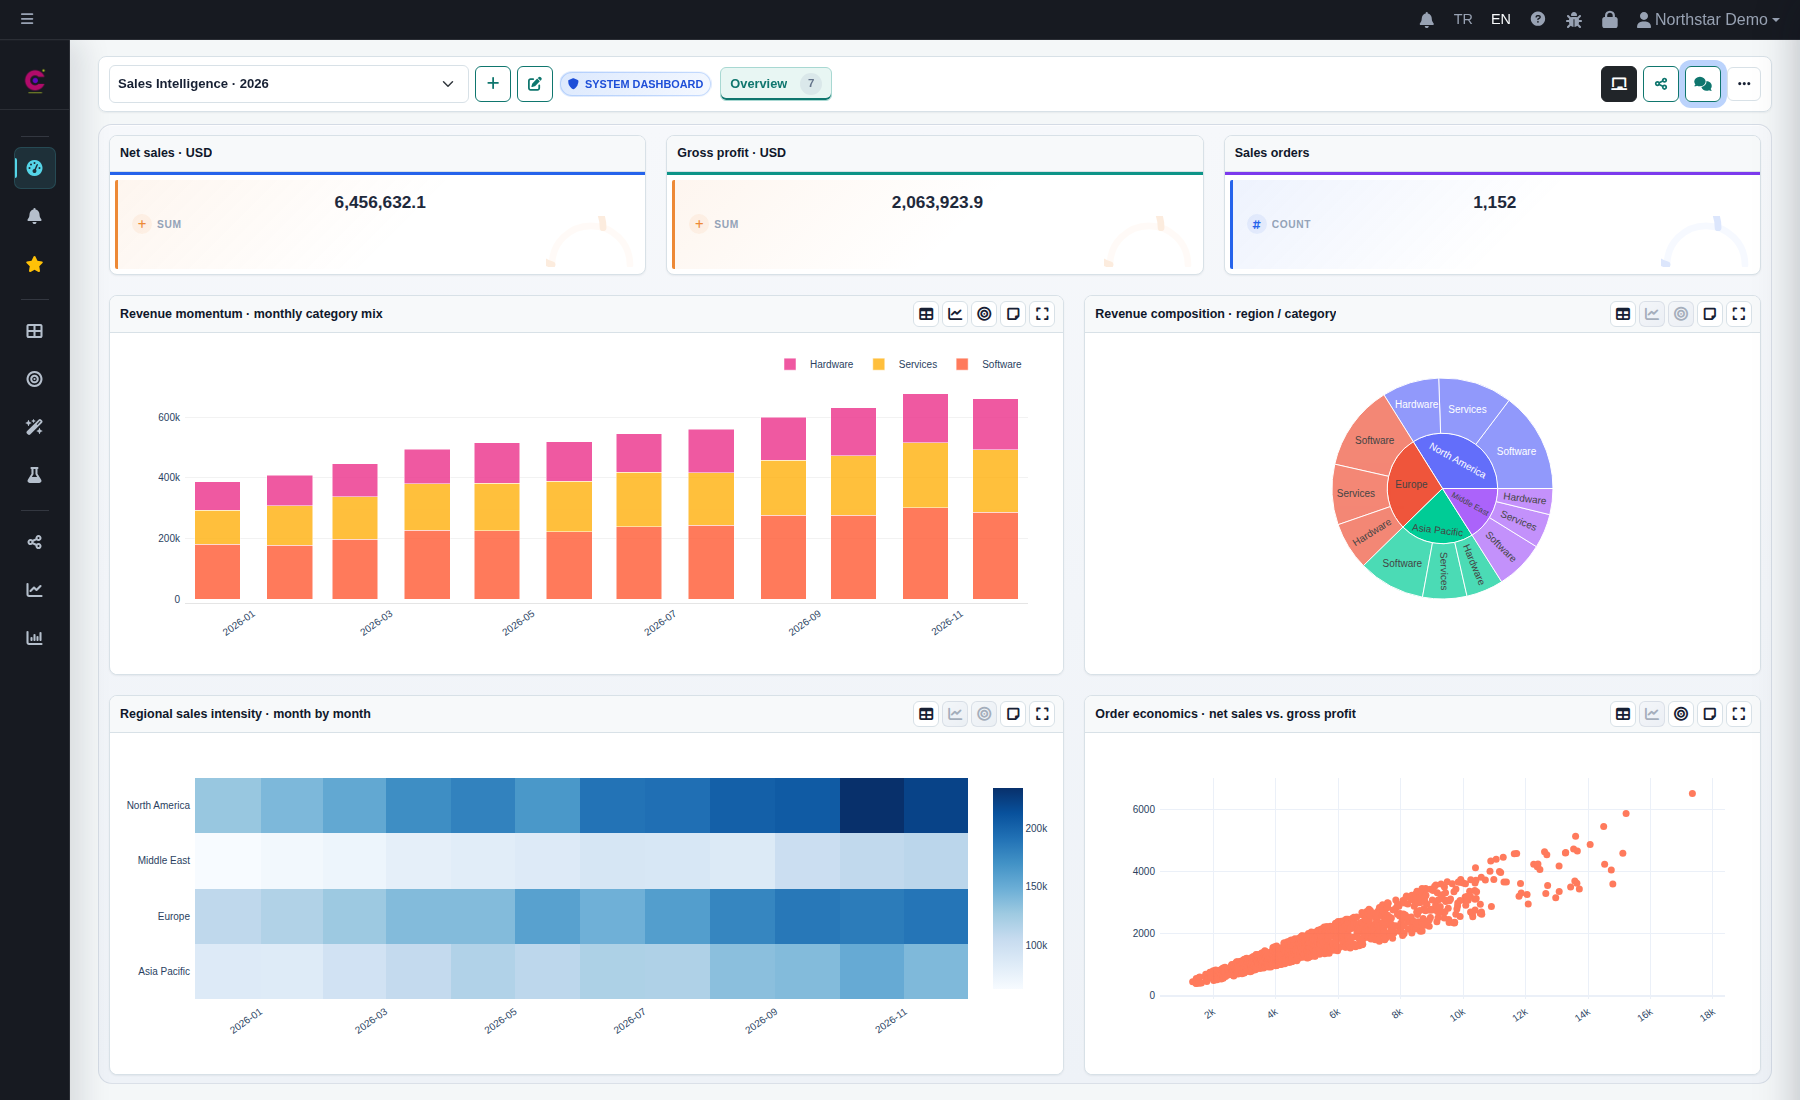
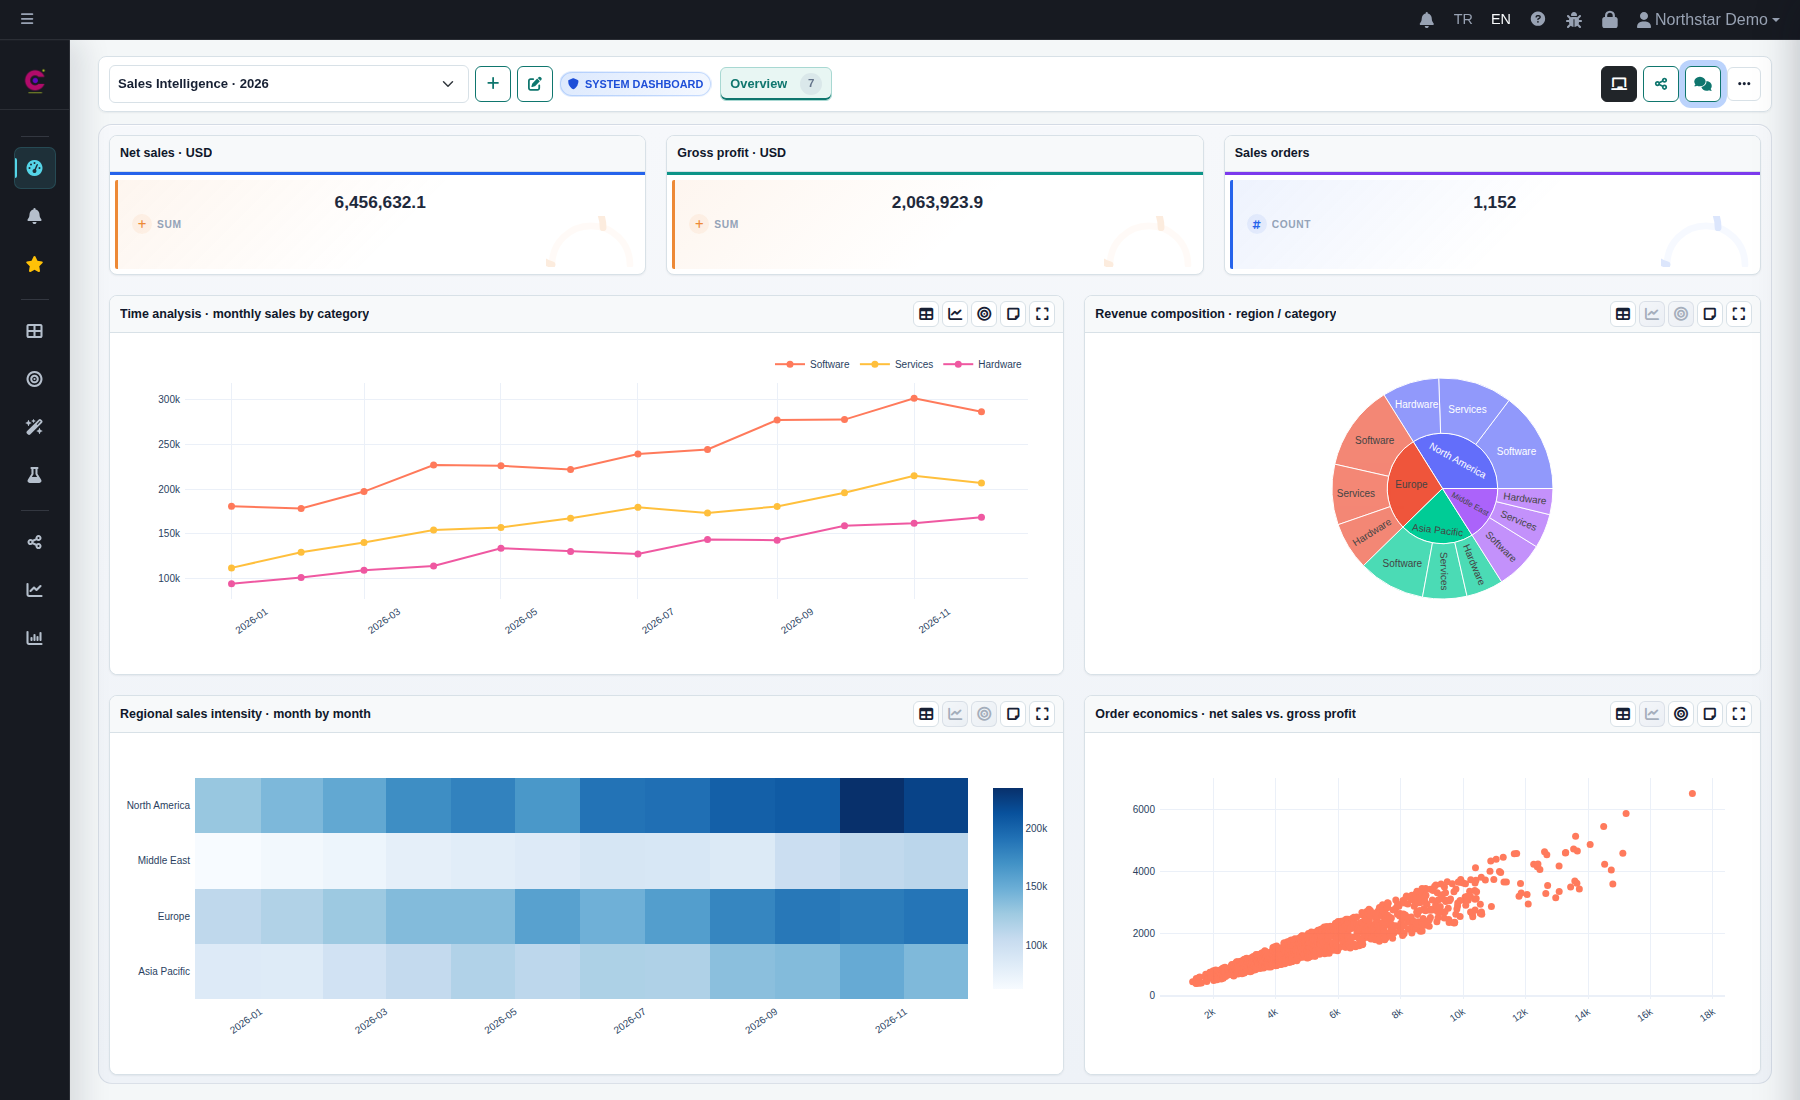
Replace the cover bar chart with monthly time-series analysis
Show monthly sales trends for three categories with a line chart captured directly from LivChart.

Changed region(s): [[0.0933, 0.3091, 0.5911, 0.5873], [0.0622, 0.2782, 0.2178, 0.3091]]

diff --git a/README.md b/README.md
@@ -6,7 +6,7 @@ Connect business data, define shared metrics, and turn questions into interactiv
 
 **[Explore the demo](https://livchart.com/en#demo)** · **[Discuss your deployment](https://livchart.com/en#contact-form)** · **[Download LivChart](https://github.com/livchart/livchart/releases/latest)**
 
-![LivChart sales intelligence dashboard with stacked monthly sales, a region-category sunburst, a regional heatmap and order-level sales-profit scatter plot.](assets/livchart-cover.png)
+![LivChart sales intelligence dashboard with monthly sales time-series analysis, a region-category sunburst, a regional heatmap and order-level sales-profit scatter plot.](assets/livchart-cover.png)
 
 *Sales performance in one workspace. [Full-size application screenshot](assets/sales-dashboard.png), captured directly from LivChart 3.4.9 with a vivid chart palette. All examples use synthetic demonstration data.*
 
